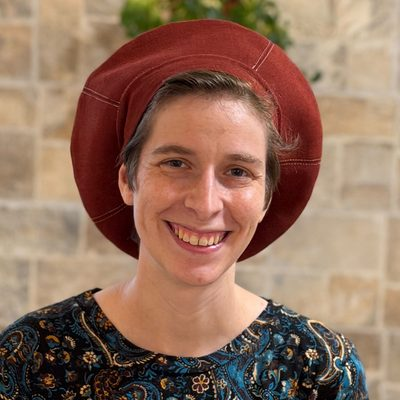
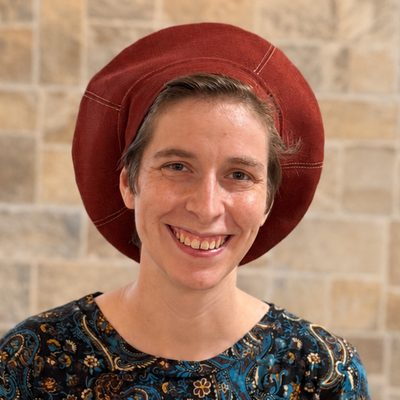
Finalize for publishing: new profile photo, CTA jumps to form, remove design panel
- Replace profile photo (no plant in background)
- Hero CTA links to the form card (#lead)
- Remove design panel HTML/CSS/JS and unused Karantina font
- Facts wording: בביתי שבנגוהות; og:description mentions season price and free intro
- Drop resolved TODO comments; update CLAUDE.md

Claude-Session: https://claude.ai/code/session_01EnTx95Ea7nEXDpBBCsWEHW

diff --git a/index.html b/index.html
@@ -15,7 +15,7 @@
 <meta property="og:locale" content="he_IL">
 <meta property="og:site_name" content="צביה גרובר · פסנתר">
 <meta property="og:title" content="שעה בשבוע שהיא רק שלך · שיעורי פסנתר בנגוהות">
-<meta property="og:description" content="שיעורי פסנתר לנשים ונערות אצל צביה גרובר, בשעות הבוקר ובאווירה ביתית. מתחילות בשיעור היכרות, בלי התחייבות.">
+<meta property="og:description" content="שיעורי פסנתר לנשים ונערות אצל צביה גרובר, בשעות הבוקר ובאווירה ביתית. מחיר מיוחד לפתיחת העונה ושיעור היכרות חינם.">
 <meta property="og:url" content="https://grooveratr.github.io/tzvia-landing/">
 <meta property="og:image" content="https://grooveratr.github.io/tzvia-landing/assets/img/og.jpg">
 <meta property="og:image:width" content="1200">
@@ -23,16 +23,11 @@
 <meta property="og:image:alt" content="נגינה בפסנתר">
 <meta name="twitter:card" content="summary_large_image">
 
-<!--
-  TODO לפני פרסום: TODO-VIDEO, TODO-NAME, TODO-PHOTO
-  פאנל עיצוב ⚙ — למחוק בסוף (מסומן DESIGN PANEL)
--->
-
 <link rel="preconnect" href="https://fonts.googleapis.com">
 <link rel="preconnect" href="https://fonts.gstatic.com" crossorigin>
-<link href="https://fonts.googleapis.com/css2?family=Bellefair&family=Karantina:wght@300;400&family=Assistant:wght@300;400;600&family=Amatic+SC:wght@700&display=swap" rel="stylesheet">
+<link href="https://fonts.googleapis.com/css2?family=Bellefair&family=Assistant:wght@300;400;600&family=Amatic+SC:wght@700&display=swap" rel="stylesheet">
 
-<link rel="stylesheet" href="assets/css/styles.css?v=3">
+<link rel="stylesheet" href="assets/css/styles.css?v=4">
 </head>
 <body>
 
@@ -66,7 +61,7 @@
     </div>
 
     <div class="cta-row">
-      <a class="btn-ink" href="#contact">לשיעור היכרות</a>
+      <a class="btn-ink" href="#lead">לשיעור היכרות</a>
       <a class="link-hand" href="https://wa.me/972547185999?text=%D7%A9%D7%9C%D7%95%D7%9D%20%D7%A6%D7%91%D7%99%D7%94%2C%20%D7%90%D7%A0%D7%99%20%D7%9E%D7%AA%D7%A2%D7%A0%D7%99%D7%99%D7%A0%D7%AA%20%D7%91%D7%A9%D7%99%D7%A2%D7%95%D7%A8%D7%99%20%D7%A4%D7%A1%D7%A0%D7%AA%D7%A8" target="_blank" rel="noopener">או כתבי לי בוואטסאפ ←</a>
     </div>
   </div>
@@ -77,17 +72,16 @@
   <div class="wrap">
     <div class="about">
       <div class="about-head">
-        <img class="avatar" src="assets/img/profile.jpg" alt="צביה גרובר" width="104" height="104">
+        <img class="avatar" src="assets/img/profile.jpg?v=2" alt="צביה גרובר" width="104" height="104">
         <h2>נעים להכיר</h2>
       </div>
-      <!-- TODO-NAME + נוסח אישי קצר -->
       <p>
         אני צביה גרובר, מורה לפסנתר בנגוהות. מלמדת את כל הסגנונות — קלאסי, ישראלי, ג׳אז ופופ —
         בהתאמה מלאה לרמה ולטעם שלך, באווירה ביתית ורגועה.
       </p>
       <ul class="facts">
         <li>שיעור שבועי של 45 או 60 דקות, בשעות הבוקר והצהריים</li>
-        <li>אצלי בבית בנגוהות</li>
+        <li>בביתי שבנגוהות</li>
         <li>לכל הרמות — גם אם מעולם לא נגעת בפסנתר</li>
         <li>מתחילות בשיעור היכרות חינם</li>
       </ul>
@@ -102,7 +96,7 @@
       </div>
     </div>
 
-    <div class="card-form">
+    <div class="card-form" id="lead">
       <h3>נשמע נהדר! תחזרי אליי ←</h3>
       <p class="small">השאירי פרטים ואחזור אלייך לתיאום שיעור היכרות.</p>
       <form id="leadForm"
@@ -154,18 +148,6 @@
   </p>
 </footer>
 
-<!-- ══ DESIGN PANEL START (למחיקה בסוף) ══ -->
-<button class="dp-toggle" id="dpToggle" aria-label="פאנל עיצוב">⚙</button>
-<div class="dp" id="dp">
-  <h4>צבע הדיו</h4>
-  <div class="row" id="dpInks"></div>
-  <h4>כהות הווידאו</h4>
-  <input type="range" id="dpOverlay" min="20" max="80" value="40">
-  <h4>פונט כותרות</h4>
-  <div class="row" id="dpFonts"></div>
-</div>
-<!-- ══ DESIGN PANEL END ══ -->
-
-<script src="assets/js/script.js?v=2"></script>
+<script src="assets/js/script.js?v=3"></script>
 </body>
 </html>

diff --git a/assets/css/styles.css b/assets/css/styles.css
@@ -30,10 +30,6 @@ a{color:inherit}
   color:#fff;overflow:hidden;isolation:isolate;
 }
 .hero-media{position:absolute;inset:0;z-index:-2;width:100%;height:100%;object-fit:cover;filter:brightness(.72) contrast(1.05)}
-/* TODO-VIDEO: להחליף את ה-div ב:
-   <video class="hero-media" autoplay muted loop playsinline poster="assets/img/poster.jpg">
-     <source src="assets/img/hero.mp4" type="video/mp4"></video>
-   MP4 קצר (8–12 שנ׳), בלי סאונד, ~2‑4MB. עדיף על GIF. */
 .hero-media.placeholder{
   background:
     radial-gradient(ellipse 70% 55% at 30% 25%, #4a4030aa, transparent 65%),
@@ -141,6 +137,7 @@ a{color:inherit}
 
 /* טופס — כרטיס במחברת */
 .card-form{
+  scroll-margin-top:20px;
   background:#fff;padding:32px 30px 36px;
   transform:rotate(.4deg);
   box-shadow:0 8px 22px #00000012;position:relative;
@@ -178,18 +175,3 @@ a{color:inherit}
 footer{text-align:center;padding:34px 20px 46px;color:var(--pencil);font-size:.92rem}
 footer .repeat{display:flex;align-items:center;justify-content:center;gap:14px}
 .repeat-sign{flex:none;width:.9em;height:1.8em;fill:var(--ink)}
-/* ══ DESIGN PANEL (למחיקה בסוף) ══ */
-.dp-toggle{position:fixed;bottom:16px;left:16px;z-index:99;width:46px;height:46px;
-  border-radius:50%;border:1px solid var(--line);cursor:pointer;font-size:1.15rem;
-  background:#fff;box-shadow:0 4px 14px #00000018}
-.dp{position:fixed;bottom:72px;left:16px;z-index:99;width:250px;background:#fff;
-  border:1px solid var(--line);box-shadow:0 14px 40px #00000022;padding:16px;display:none;font-size:.88rem}
-.dp.open{display:block}
-.dp h4{font-size:.76rem;letter-spacing:.08em;color:var(--pencil);margin:12px 0 8px}
-.dp h4:first-child{margin-top:0}
-.dp .row{display:flex;gap:8px;flex-wrap:wrap}
-.dp .swatch{width:34px;height:34px;border-radius:50%;cursor:pointer;border:2px solid transparent}
-.dp .swatch.sel{border-color:var(--ink)}
-.dp button.opt{padding:.3em .8em;border:1px solid var(--line);background:#fff;cursor:pointer;font-size:.85rem}
-.dp button.opt.sel{border-color:var(--ink);font-weight:600}
-.dp input[type=range]{width:100%}

diff --git a/assets/js/script.js b/assets/js/script.js
@@ -85,26 +85,3 @@ document.getElementById('leadForm').addEventListener('submit',function(){
     document.getElementById('formSuccess').style.display='block';
   },400);
 });
-
-/* ══ DESIGN PANEL SCRIPT (למחיקה בסוף) ══ */
-(function(){
-  const inks=[{n:'דיו כחול',c:'#2C4770'},{n:'יין',c:'#6E2B3A'},{n:'יער',c:'#31523F'},{n:'גרפיט',c:'#3C3A35'}];
-  const fonts=[{n:'Bellefair',v:"'Bellefair', serif"},{n:'Karantina',v:"'Karantina', serif"}];
-  const root=document.documentElement.style;
-  function build(el,arr,render,apply){
-    arr.forEach((item,i)=>{
-      const b=render(item);
-      if(i===0)b.classList.add('sel');
-      b.onclick=()=>{apply(item);el.querySelectorAll('.sel').forEach(x=>x.classList.remove('sel'));b.classList.add('sel');};
-      el.appendChild(b);
-    });
-  }
-  build(document.getElementById('dpInks'),inks,
-    i=>{const b=document.createElement('button');b.className='swatch';b.title=i.n;b.style.background=i.c;return b;},
-    i=>root.setProperty('--accent',i.c));
-  build(document.getElementById('dpFonts'),fonts,
-    f=>{const b=document.createElement('button');b.className='opt';b.textContent=f.n;return b;},
-    f=>root.setProperty('--font-display',f.v));
-  document.getElementById('dpOverlay').oninput=e=>root.setProperty('--overlay',e.target.value/100);
-  document.getElementById('dpToggle').onclick=()=>document.getElementById('dp').classList.toggle('open');
-})();

diff --git a/CLAUDE.md b/CLAUDE.md
@@ -9,22 +9,14 @@ Single-page Hebrew (RTL) landing page for Tzvia Gruber's piano lessons for women
 ## Files
 
 - `index.html` is the markup. It links the CSS/JS with a cache-busting `?v=N` query. Bump it whenever `styles.css` or `script.js` changes, or browsers keep the stale file and mismatch the new HTML.
-- `assets/img/` holds images: `hero.jpg` (1536×1024) is the hero image, with `hero-800.jpg` as the mobile version via `srcset`. Future `hero.mp4` / `poster.jpg` go here too. `og.jpg` is the social preview and `favicon.svg` is the tab icon. The 2MB `ChatGPT Image*.png` source image is git-ignored.
+- `assets/img/` holds images: `hero.jpg` (1536×1024) is the hero image, with `hero-800.jpg` as the mobile version via `srcset`. `profile.jpg` (400×400) is Tzvia's photo in the about section; bump its `?v=N` in the HTML when replacing it. `og.jpg` is the social preview and `favicon.svg` is the tab icon. The 2MB `ChatGPT Image*.png` source image is git-ignored.
 - `.nojekyll` makes GitHub Pages serve the files as-is, without Jekyll processing.
-- `assets/css/styles.css` holds the design tokens as CSS variables on `:root` (`--accent`, `--overlay`, `--font-display`, `--wobble`, …). Fonts come from Google Fonts: Bellefair, Karantina, Assistant, Amatic SC.
-- `assets/js/script.js` contains three independent IIFE/handlers:
+- `assets/css/styles.css` holds the design tokens as CSS variables on `:root` (`--accent`, `--overlay`, `--font-display`, `--wobble`, …). Fonts come from Google Fonts: Bellefair, Assistant, Amatic SC. The about section also holds the season-opening price list (`.prices`: 45 min 150→130 ₪, 60 min 175→160 ₪, free intro lesson).
+- `assets/js/script.js` contains two independent handlers:
   1. **Playable staff:** builds the SVG notes of the opening of "Für Elise" into `#notesLayer` and plays them with the Web Audio API (a triangle plus a sine oscillator). Each `melody` entry is `[freq, Hebrew note name, staff y, isSharp]`. The y values follow the staff line positions in the SVG `viewBox="0 0 520 80"` (the comment maps F5=16 … A4=46). The staff box is forced to `direction:ltr` inside the RTL page.
-  2. **Lead form:** `#leadForm` posts to a Google Form ("פסנתר צביה", fields entry.823151790 name, entry.1418702409 phone, entry.54648334 background) through the hidden iframe `hidden_iframe`. The `<option>` values must match the Google Form choices exactly (hence `value="לא ניגנתי"` on the first one), or Google rejects the submission. The JS only swaps in `#formSuccess` after 400ms, and there is no real response handling.
-  3. **Design panel:** a temporary tuning UI (the ⚙ button) that live-edits the `--accent`, `--overlay` and `--font-display` CSS variables.
+  2. **Lead form:** `#leadForm` posts to a Google Form ("פסנתר צביה", fields entry.823151790 name, entry.1418702409 phone, entry.54648334 background) through the hidden iframe `hidden_iframe`. The `<option>` values must match the Google Form choices exactly (hence `value="לא ניגנתי"` on the first one), or Google rejects the submission. The JS only swaps in `#formSuccess` after 400ms, and there is no real response handling. Further fields: entry.372124515 preferred lesson length (select: עוד לא החלטתי / 45 דקות / 60 דקות), entry.1448499747 optional free-text "קצת על עצמי". The hero "לשיעור היכרות" button links to `#lead` (the form card).
 
 ## Hosting
 
 GitHub Pages at `https://grooveratr.github.io/tzvia-landing/` (repo `grooverATR/tzvia-landing`). `canonical`, `og:url` and `og:image` in `<head>` hard-code this absolute URL (Open Graph needs absolute URLs), so update them if the repo or domain changes. `assets/img/og.jpg` (1200×630, cropped from `hero.jpg`) is the WhatsApp/Facebook preview image.
 
-## Pending TODOs before publishing
-
-These are marked in the HTML/CSS comments:
-- **TODO-VIDEO**: replace the hero `<img>` with a muted, looping `<video class="hero-media">` (a short MP4, ~2–4MB). The CSS comment in `assets/css/styles.css` has the snippet.
-- **TODO-PHOTO**: replace the `.avatar.placeholder` div in the about section with an `<img class="avatar">` (square, ~400×400).
-- **TODO-NAME**: personalize the "נעים להכיר" about text.
-- **Design panel removal**: delete the block between `DESIGN PANEL START/END` in the HTML, the `DESIGN PANEL SCRIPT` IIFE in `assets/js/script.js`, and the matching `.dp`/`.dp-toggle` styles in `assets/css/styles.css`.
